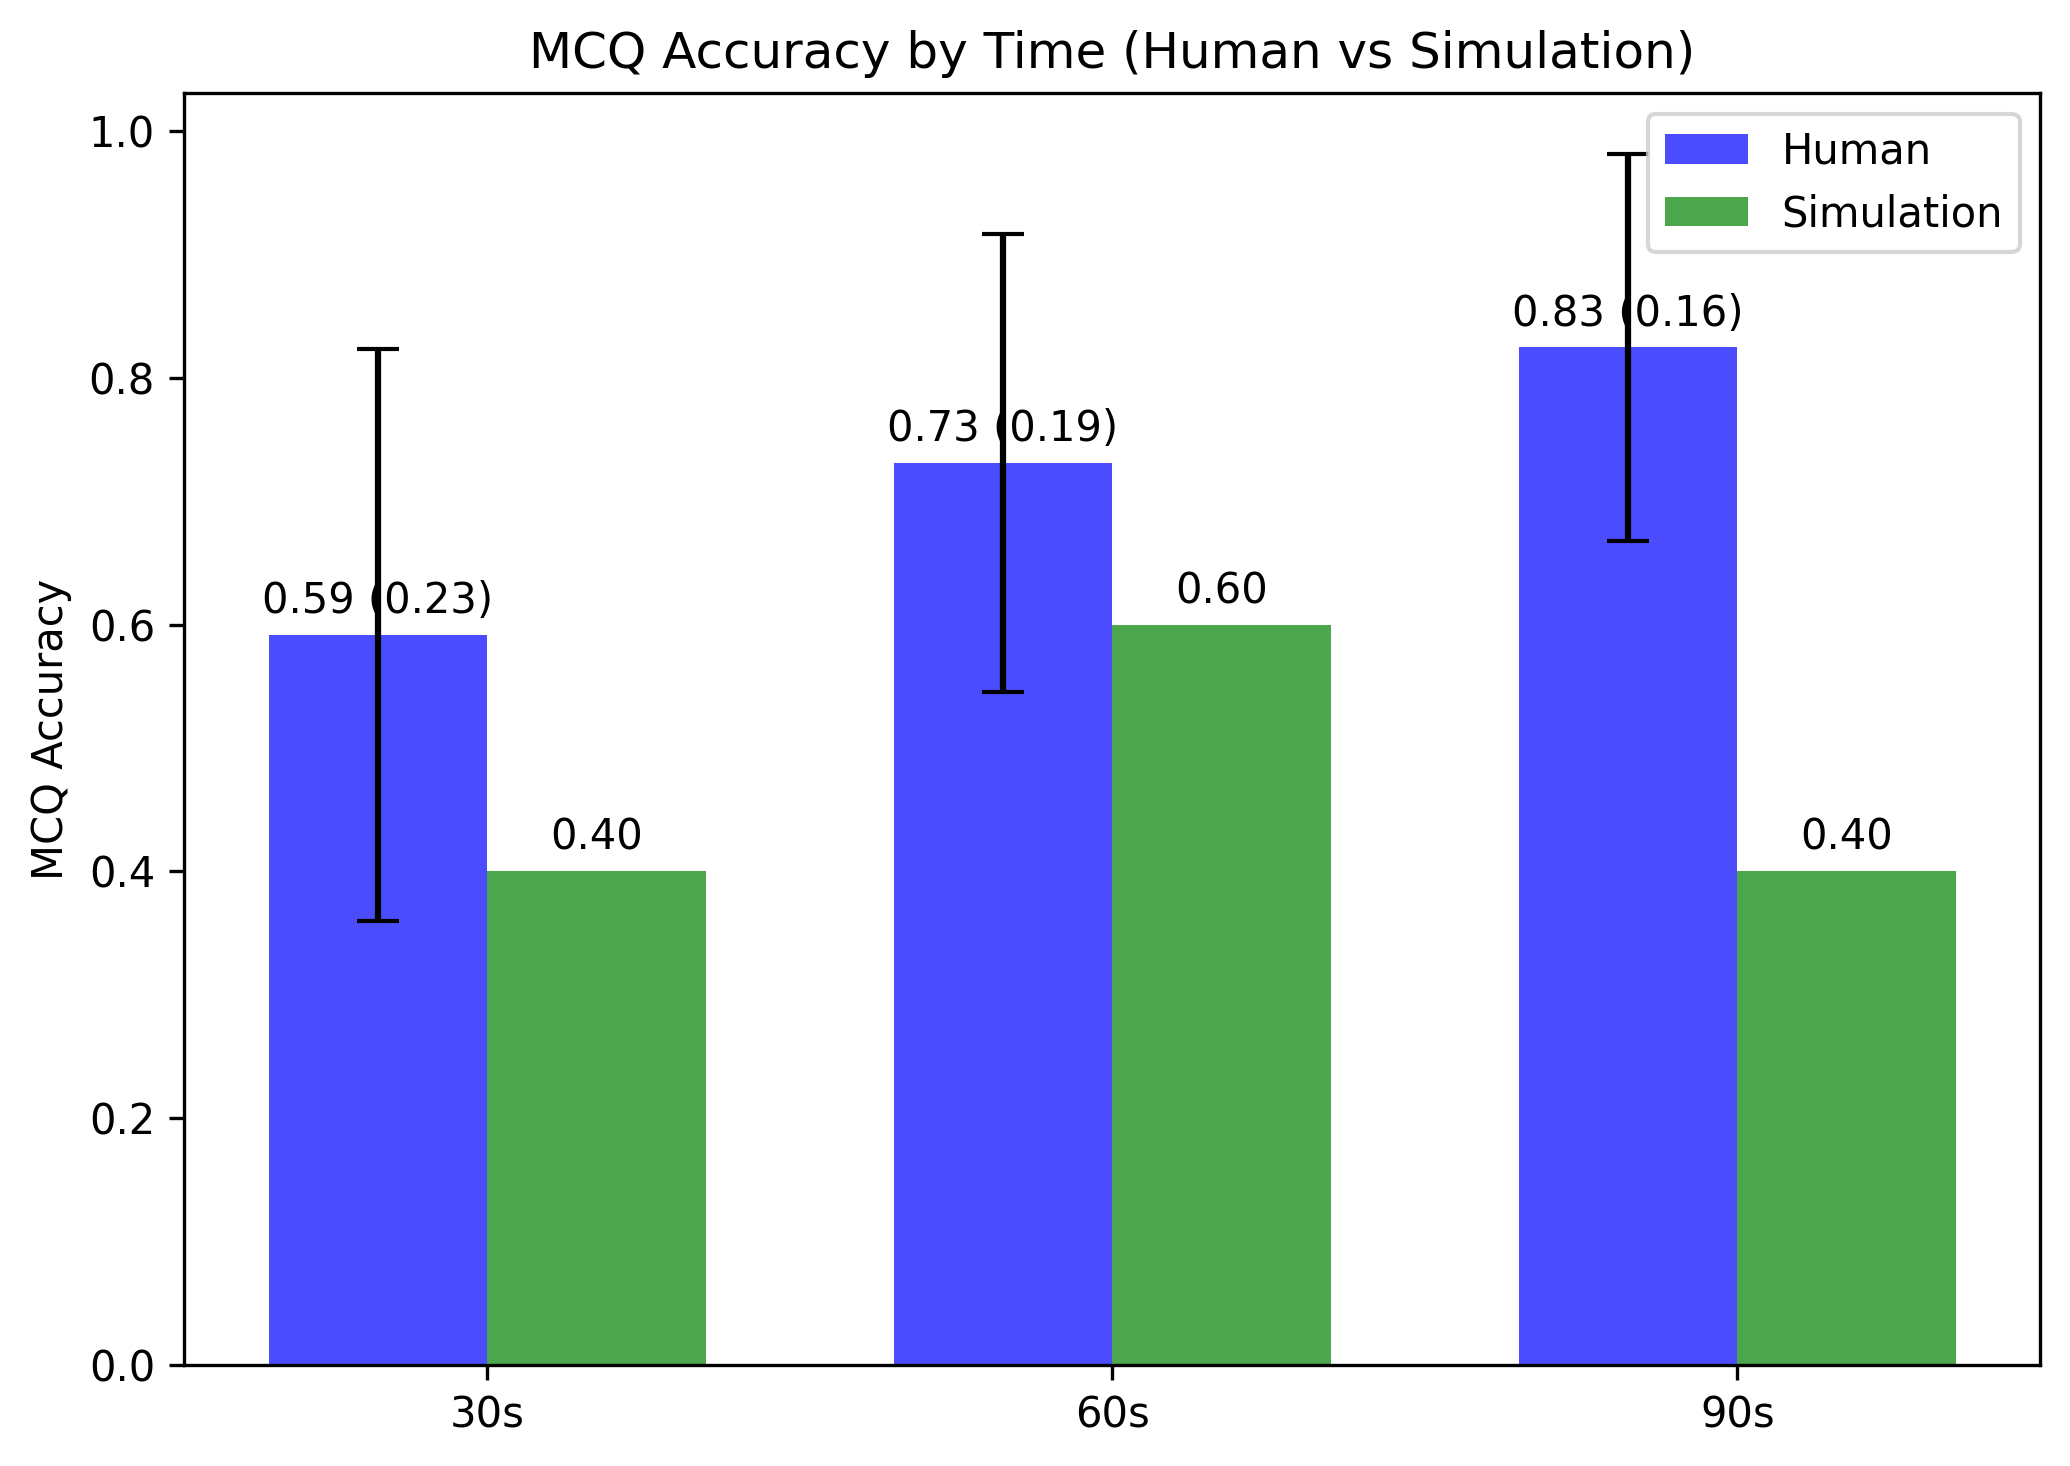
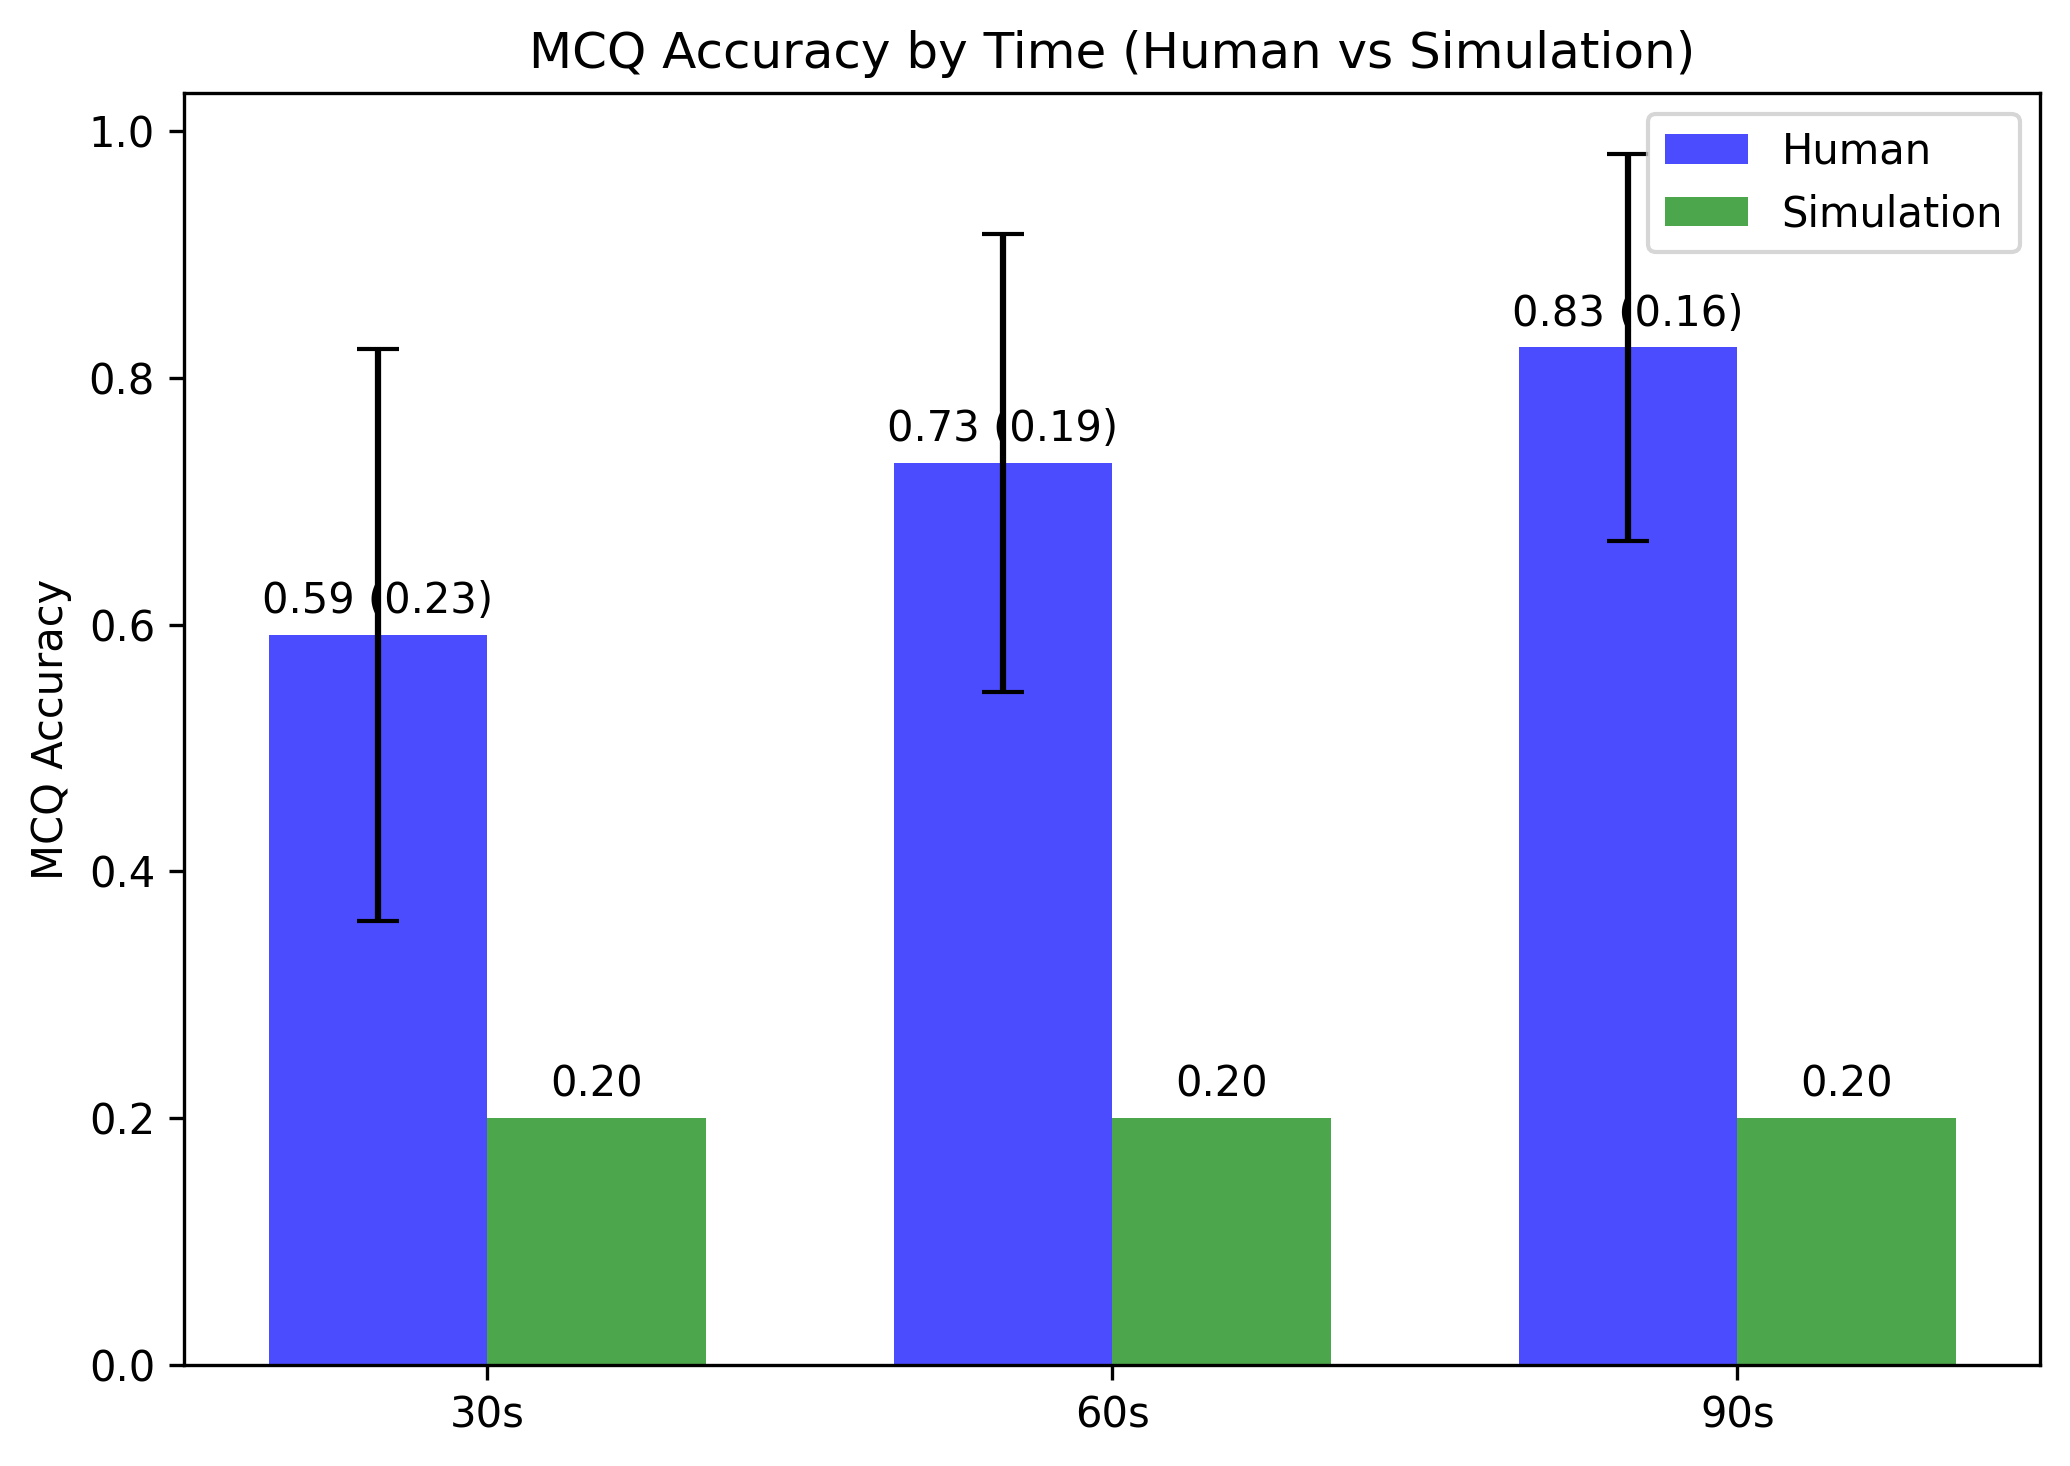
Code >> Adding the sequence. Now sequence + no ci schema, the mcq is still not right (too many information loss), but the free recall trend is alright. TODO: 1. test with more stimuli. 2. analyze mcq's reason. 3. test with ci_schema.

Changed region(s): [[0.5256, 0.399, 0.6493, 0.7674], [0.8348, 0.5525, 0.9585, 0.7674], [0.2164, 0.5525, 0.3401, 0.7674]]

diff --git a/step5/simulators/simulator_v20250604/results/analyze_aggregated_results/comprehension_tests_runner/comprehension_test_pipeline.py b/step5/simulators/simulator_v20250604/results/analyze_aggregated_results/comprehension_tests_runner/comprehension_test_pipeline.py
@@ -175,29 +175,49 @@ def load_json(path: str) -> Any:
 
 def parse_trial_key(key: str) -> TrialKey:
     """
-    Expect keys like 'episode_0_stim_0_30s__LTM'.
+    Accept keys like 'episode_0_stim_0_30s__LTM' or '__SOM'.
+    Returns (TrialKey, suffix) where suffix in {"LTM","SOM"}.
     """
-    m = re.match(r"episode_(\d+)_stim_(\d+)_(\d+)(s)__LTM", key)
+    m = re.match(r"episode_(\d+)_stim_(\d+)_(\d+)(s)__(LTM|SOM)$", key)
     if not m:
         raise ValueError(f"Unrecognized trial key format: {key}")
-    return TrialKey(episode_index=int(m.group(1)),
-                    stimulus_index=int(m.group(2)),
-                    time_condition=m.group(3) + m.group(4))
+    tk = TrialKey(episode_index=int(m.group(1)),
+                  stimulus_index=int(m.group(2)),
+                  time_condition=m.group(3) + m.group(4))
+    return tk, m.group(5)
 
 
-def extract_trials(ltm_json: Dict[str, Any]) -> List[Tuple[TrialKey, Dict[str, Any]]]:
+def extract_trials(ltm_json: Dict[str, Any], suffix: str) -> List[Tuple[TrialKey, Dict[str, Any]]]:
+    suffix = (suffix or "LTM").upper()
     trials = []
     for k, v in ltm_json.items():
-        if k.endswith("__LTM"):
-            try:
-                tk = parse_trial_key(k)
+        if not k.endswith(f"__{suffix}"):
+            continue
+        try:
+            tk, suf = parse_trial_key(k)
+            if suf == suffix:
                 trials.append((tk, v))
-            except Exception as e:
-                # Skip anything that doesn't match the expected pattern
-                continue
-    # sort by (episode, stim, time)
+        except Exception:
+            continue
     trials.sort(key=lambda kv: (kv[0].episode_index, kv[0].stimulus_index, kv[0].time_condition))
     return trials
+
+
+def props_from_som(per_sentence: Dict[str, List[str]],
+                   max_props: int,
+                   per_sent_limit: int = 12) -> List[str]:
+    """Return propositions in sentence order, capping per sentence, de-duplicated."""
+    ordered_sids = sorted((int(s) for s in per_sentence.keys()))
+    out, seen = [], set()
+    for sid in ordered_sids:
+        props = per_sentence[str(sid)][:per_sent_limit]
+        for p in props:
+            if p not in seen:
+                out.append(p)
+                seen.add(p)
+            if len(out) >= max_props:
+                return out
+    return out
 
 
 def rank_propositions(items: Dict[str, Dict[str, float]], sort_by: str, max_props: int) -> List[str]:
@@ -296,6 +316,8 @@ def run_pipeline(ltm_path: str,
                  mode: str = "llm",
                  sort_by: str = "last_relevance",
                  max_props: int = 40,
+                 source: str = "LTM",
+                 som_per_sent_limit: int = 12,
                  participant_id_default: int = 0,
                  verbose: int = 1,
                  fr_score_mode: str = "heuristic",
@@ -312,8 +334,11 @@ def run_pipeline(ltm_path: str,
 
     ltm = load_json(ltm_path)
     mcq = load_json(mcq_path)
-    trials = extract_trials(ltm)
-    vprint(1, f"[LOAD] Extracted {len(trials)} trial(s) from LTM store.")
+    # trials = extract_trials(ltm)
+    # vprint(1, f"[LOAD] Extracted {len(trials)} trial(s) from LTM store.")
+    source = (source or "LTM").upper()
+    trials = extract_trials(ltm, suffix=source)
+    vprint(1, f"[LOAD] Extracted {len(trials)} trial(s) from {source}.")
 
     # Optional: stimuli text for FR scoring reference
     stim_texts = None
@@ -330,9 +355,16 @@ def run_pipeline(ltm_path: str,
     total_correct = 0
 
     for i, (tk, payload) in enumerate(trials, start=1):
-        vprint(1, f"[TRIAL {i}/{len(trials)}] episode={tk.episode_index} stim={tk.stimulus_index} time={tk.time_condition}")
-        items = payload.get("items", {})
-        ltm_props = rank_propositions(items, sort_by=sort_by, max_props=max_props)
+        if source == "SOM":
+            per_sentence = payload.get("per_sentence", {})
+            ltm_props = props_from_som(per_sentence, max_props=max_props, per_sent_limit=som_per_sent_limit)
+        else:
+            vprint(1, f"[TRIAL {i}/{len(trials)}] episode={tk.episode_index} stim={tk.stimulus_index} time={tk.time_condition}")
+            items = payload.get("items", {})
+            ltm_props = rank_propositions(items, sort_by=sort_by, max_props=max_props)
+        # vprint(1, f"[TRIAL {i}/{len(trials)}] episode={tk.episode_index} stim={tk.stimulus_index} time={tk.time_condition}")
+        # items = payload.get("items", {})
+        # ltm_props = rank_propositions(items, sort_by=sort_by, max_props=max_props)
         vprint(2, f"  └─ selected {len(ltm_props)} proposition(s) for prompting")
 
         # Fresh LLMAgent per trial if using LLM mode
@@ -454,10 +486,11 @@ def run_pipeline(ltm_path: str,
 def main(
 ):
     ap = argparse.ArgumentParser()
-    ap.add_argument("--mode", choices=["llm","heuristic","gold"], default="heuristic",
-                    help="llm: call OpenAI via LLMAgent; heuristic: offline keyword; gold: use correct answers")
+    ap.add_argument("--mode", choices=["llm","heuristic","gold"], default="heuristic", help="llm: call OpenAI via LLMAgent; heuristic: offline keyword; gold: use correct answers")
     ap.add_argument("--sort_by", choices=["last_relevance","total_strength","visits"], default="last_relevance")
     ap.add_argument("--max_props", type=int, default=40, help="Clamp number of LTM propositions per prompt")
+    ap.add_argument("--source", choices=["LTM","SOM"], default="SOM", help="Read gists from '__LTM' (metadata-ranked) or '__SOM' (sentence-ordered).")
+    ap.add_argument("--som_per_sent_limit", type=int, default=20, help="Max propositions to take per sentence when --source SOM.")
     ap.add_argument("--participant_id", type=int, default=0, help="Participant ID to put in results (if unknown)")
     ap.add_argument("--verbose", type=int, default=1, help="0=silent, 1=high-level, 2=step-by-step")
     ap.add_argument("--fr_score_mode", choices=["heuristic","embedding","llm"], default="heuristic", help="How to score free recall: embedding=cosine(CountVectorizer TF), heuristic=blend(difflib+Jaccard), llm=graded by LLM")
@@ -478,6 +511,8 @@ def main(
         mode=args.mode,
         sort_by=args.sort_by,
         max_props=args.max_props,
+        source=args.source,
+        som_per_sent_limit=args.som_per_sent_limit,
         participant_id_default=args.participant_id,
         verbose=args.verbose,
         fr_score_mode=args.fr_score_mode,

diff --git a/step5/simulators/simulator_v20250604/results/analyze_aggregated_results/offline_text_comprehension_runner/ci_schema_pipeline.py b/step5/simulators/simulator_v20250604/results/analyze_aggregated_results/offline_text_comprehension_runner/ci_schema_pipeline.py
@@ -11,8 +11,6 @@ from typing import Dict, Iterable, List, Optional, Tuple
 
 import numpy as np
 
-# TODO: maybe resume the function of using re-generated gpt propositions, to show that after re-reading, new details are gained. NOTE: only do this if we find the comprehension results are too far away from the human data.
-
 
 # --------------------------- Logging ---------------------------
 
@@ -263,6 +261,47 @@ def integrate(net: CINetwork, iters: int = 12, leak: float = 0.10, beta: float =
         net.nodes[i].activation = float(val)
 
 
+# --------------------------- Sentence-Ordered Memory (SOM) ---------------------------
+
+@dataclass
+class GistBoard:
+    per_sent: Dict[int, List[str]] = field(default_factory=dict)
+    order: List[int] = field(default_factory=list)
+    per_sent_limit: int = 12
+    update_policy: str = "replace"   # "replace" or "merge_topk"
+
+    def update(self, sent_id: int, props: List[str], scores: Optional[Dict[str, float]] = None):
+        # de-dup while preserving order
+        seen = set(); uniq = []
+        for p in props:
+            if p not in seen:
+                uniq.append(p); seen.add(p)
+
+        # rank (if scores provided)
+        if scores:
+            uniq = sorted(uniq, key=lambda x: scores.get(x, 0.0), reverse=True)
+
+        if self.update_policy == "replace":
+            selected = uniq[: self.per_sent_limit]
+        else:  # merge_topk
+            prev = self.per_sent.get(sent_id, [])
+            merged = prev + [p for p in uniq if p not in prev]
+            if scores:
+                merged = sorted(merged, key=lambda x: scores.get(x, 0.0), reverse=True)
+            selected = merged[: self.per_sent_limit]
+
+        if sent_id not in self.order:
+            self.order.append(sent_id)
+        self.per_sent[sent_id] = selected
+
+    def flatten(self) -> List[str]:
+        # return all propositions in sentence order
+        out = []
+        for sid in sorted(self.order):
+            out.extend(self.per_sent.get(sid, []))
+        return out
+
+
 # --------------------------- Dynamic schema + macrorules ---------------------------
 
 @dataclass
@@ -402,7 +441,9 @@ def process_episode(ep: Dict,
                     log_every: int = 1,
                     ltm_store: Optional[LTMStore] = None,
                     p_store: float = 0.35,
-                    mode: str = "ci_schema") -> List[CycleOutput]:
+                    mode: str = "ci_schema",
+                    som_limit: int = 12,
+                    som_policy: str = "replace") -> Tuple[List[CycleOutput], GistBoard]:
 
     if schema is None:
         schema = Schema()
@@ -415,6 +456,9 @@ def process_episode(ep: Dict,
     prev_wm: List[str] = []
 
     t_ep0 = time.perf_counter()
+
+    gist_board = GistBoard(per_sent_limit=som_limit, update_policy=som_policy)
+
     for k, log in enumerate(ep["text_reading_logs"], start=1):
         t0 = time.perf_counter()
 
@@ -436,10 +480,15 @@ def process_episode(ep: Dict,
             # --- BYPASS: no schema learning, no macroselection, no CI coherence ---
             wm_props = props[:]  # keep EVERYTHING in WM/gist for this cycle
             keep_scores = {p.signature(): 0.0 for p in wm_props}  # default zeros
+            # store all propositions for this sentence (ordered), no scores
+            wm_now = [p.signature() for p in wm_props]
+            gist_board.update(sent_id, wm_now, keep_scores)
         else:
             # --- Original CI+Schema path ---
             schema.update_from_props(props, strength=strength)
             wm_props, keep_scores = macroselect_gist(props, schema, buffer_size=wm_buffer)
+            # store the selected WM items with scores
+            gist_board.update(sent_id, wm_now, keep_scores)
         # schema.update_from_props(props, strength=strength)
         # wm_props, keep_scores = macroselect_gist(props, schema, buffer_size=wm_buffer)
 
@@ -502,7 +551,8 @@ def process_episode(ep: Dict,
 
     if logger:
         logger.info(f"{episode_tag} DONE in {time.perf_counter() - t_ep0:.2f}s | LTM size={len(ltm_store.db)}")
-    return out
+    
+    return out, gist_board
 
 
 # --------------------------- Entry ---------------------------
@@ -518,7 +568,10 @@ def run_pipeline(json_path: str,
                  verbose: str = "INFO",
                  p_store: float = 0.35,
                  allow_reparse: bool = False,
-                 mode: str = "ci_schema") -> Dict:
+                 mode: str = "ci_schema",
+                 som_limit: int = 12,
+                 som_policy: str = "replace"
+                 ) -> Dict:
     """Run CI+Schema over episodes with rich logging, WM/LTM tracking.
 
     Args:
@@ -556,14 +609,18 @@ def run_pipeline(json_path: str,
         schema = Schema()
         ltm_store = LTMStore(p_store=p_store)
 
-        cycles = process_episode(ep, parser, schema=schema, wm_buffer=wm_buffer,
-                                 logger=logger, episode_tag=tag, log_every=log_every,
-                                 ltm_store=ltm_store, p_store=p_store, mode=mode)
+        cycles, gist_board = process_episode(ep, parser, schema=schema, wm_buffer=wm_buffer, logger=logger, episode_tag=tag, log_every=log_every, 
+            ltm_store=ltm_store, p_store=p_store, mode=mode, som_limit=som_limit, som_policy=som_policy,)
 
         # per-cycle details (backward compatible shape + new fields)
         results[key] = [asdict(c) for c in cycles]
         # include episode-level LTM summary
         results[key + "__LTM"] = {"p_store": p_store, "items": ltm_store.as_dict()}
+        results[key + "__SOM"] = {
+            "policy": som_policy,
+            "per_sentence": {str(sid): gist_board.per_sent[sid] for sid in sorted(gist_board.order)},
+            "flat": gist_board.flatten()
+        }
         logger.info(f"{tag} CACHE stats: hits={parser.cache_hits}, misses={parser.cache_misses}, size={len(parser._cache)}")
 
     return results

diff --git a/step5/simulators/simulator_v20250604/results/analyze_aggregated_results/offline_text_comprehension_runner/main.py b/step5/simulators/simulator_v20250604/results/analyze_aggregated_results/offline_text_comprehension_runner/main.py
@@ -16,6 +16,8 @@ if __name__ == "__main__":
     ap.add_argument("--allow_reparse", type=bool, default=True)
     ap.add_argument("--mode", default="ci_schema", choices=["ci_schema", "none"], help="Integration mode: 'ci_schema' for handcrafted CI+schema; 'none' to bypass and store all props")
     ap.add_argument("--verbose", default="INFO", choices=["DEBUG","INFO","WARNING","ERROR"])
+    ap.add_argument("--som_limit", type=int, default=20, help="Max propositions per sentence slot in the ordered gist")
+    ap.add_argument("--som_policy", default="replace", choices=["replace","merge_topk"], help="How to update a sentence slot on revisits")
     args = ap.parse_args()
 
     # init your agent (uses your Aalto gateway per your file)
@@ -34,6 +36,8 @@ if __name__ == "__main__":
         p_store=0.35,       # per-cycle consolidation prob for recall proxy
         allow_reparse=True,
         mode=args.mode,
+        som_limit=args.som_limit,      
+        som_policy=args.som_policy,   
     )
 
     # write outputs to a compact JSON for analysis/plots
@@ -43,7 +47,8 @@ if __name__ == "__main__":
     print("Saved -> ci_memory_comprehension_logs.json")
     
     # Write only ltm gists to a folder for further processing
-    ltm_preserved = {k: v for k, v in results.items() if k.endswith("__LTM")}
+    # ltm_preserved = {k: v for k, v in results.items() if k.endswith("__LTM")}
+    ltm_preserved = {k: v for k, v in results.items() if k.endswith("__SOM")}
     ltm_filepath = os.path.join('..', 'assets','comprehension_results','simulation','sim_ltm_gists.json')
     with open(ltm_filepath,"w",encoding="utf-8") as f:
         json.dump(ltm_preserved, f, ensure_ascii=False, indent=2)

diff --git a/step5/simulators/simulator_v20250604/results/analyze_aggregated_results/offline_text_comprehension_runner/README.md b/step5/simulators/simulator_v20250604/results/analyze_aggregated_results/offline_text_comprehension_runner/README.md
@@ -227,11 +227,11 @@ WM=5 [ret 3, +2, -2] | LTM+=5 (top: skip(readers, words), install(stations, new)
    - Minimal Python script (see code above), or use your CLI runner with flags. Note that `--episodes` number determines how many trials to cover. Set `1` for a smoking check.
    - CI schema integration on:
      ```bash
-     python main.py --episodes 1 --log_every 1 --mode ci_schema --verbose DEBUG
+     python main.py --episodes 1 --log_every 1 --mode ci_schema --som_policy merge_topk --verbose INFO
      ```
     - CI schema integration off (for testing and comparisons):
       ```bash
-      python main.py --episodes 1 --log_every 1 --mode none --verbose DEBUG
+      python main.py --episodes 1 --log_every 1 --mode none --som_policy merge_topk --verbose INFO
       ```
 
 4) **Inspect results**  
